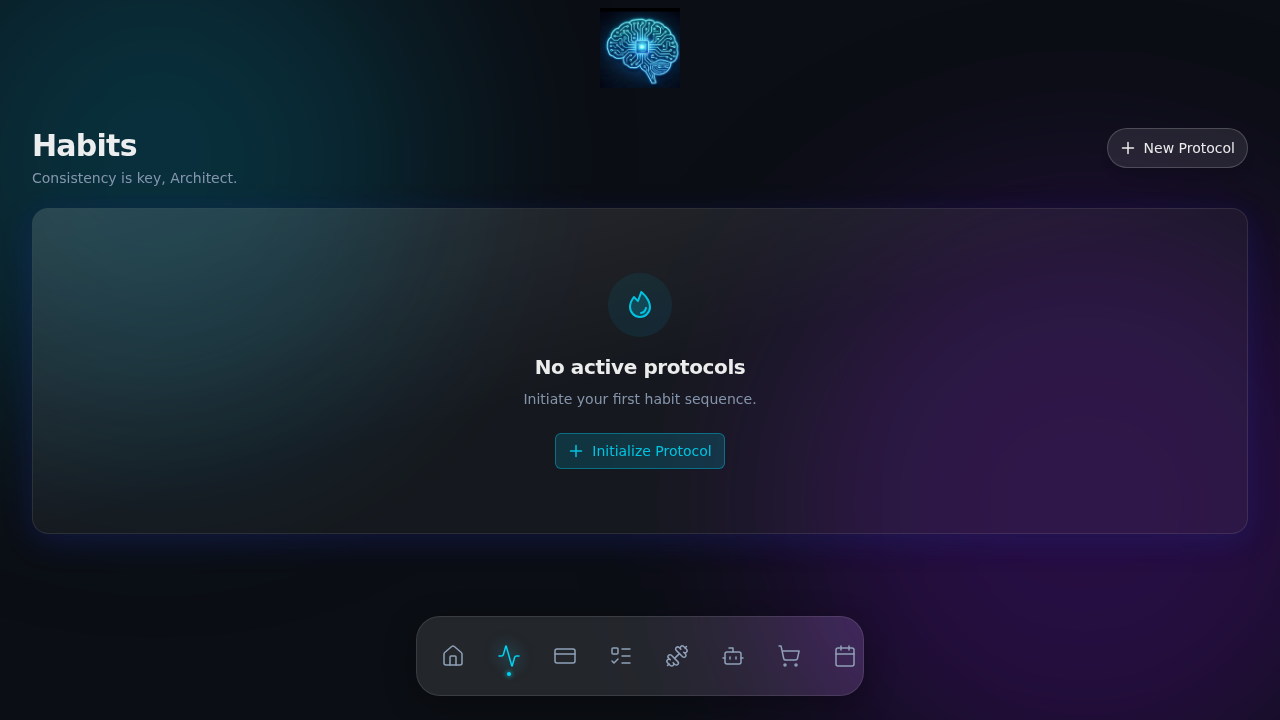
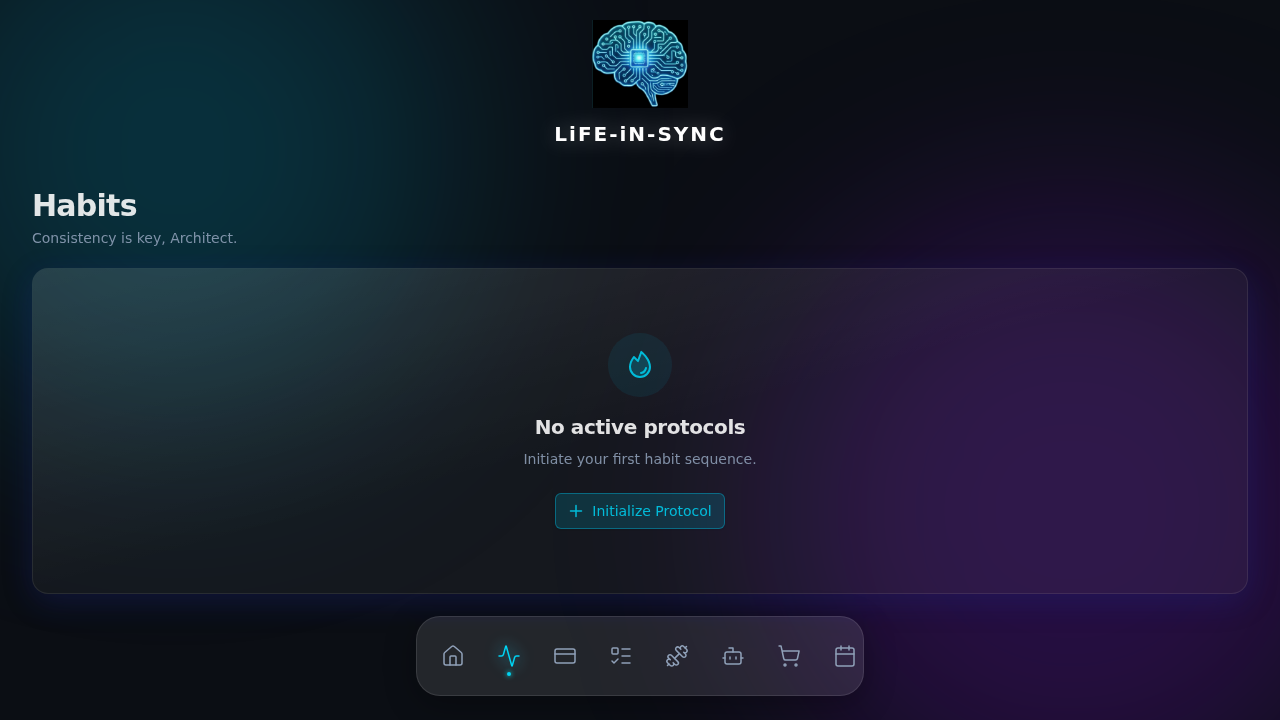
feat(ui): standardize global UX, cards, and system messages
- Updated viewport to `interactive-widget=overlays-content` to prevent layout jumping
- Refactored `useKeyboardAvoidance` to use Visual Viewport API for manual scroll management
- Standardized `Card` component to solid background (removing default glass blur)
- Refined `Toaster` styles to reduce aggressive "neon" glow
- Standardized inline form validation with icon and specific rose-400 color
- Added smooth fade-in transition to Dashboard loading
- Fixed redundant "New Protocol" action in Habits module

diff --git a/src/hooks/use-keyboard-avoidance.ts b/src/hooks/use-keyboard-avoidance.ts
@@ -4,43 +4,62 @@ import { useEffect, useState } from 'react';
  * A hook that provides keyboard visibility state and automatically scrolls
  * focused inputs into view.
  *
+ * Updated for interactive-widget=overlays-content support.
+ *
  * @returns { isKeyboardOpen: boolean }
  */
 export function useKeyboardAvoidance() {
     const [isKeyboardOpen, setIsKeyboardOpen] = useState(false);
 
     useEffect(() => {
-        // Store the initial height to compare against
-        const initialHeight = window.innerHeight;
+        // With overlays-content, visualViewport resizes but window.innerHeight stays constant (mostly)
+        // or behaves differently depending on browser.
+        // We rely on visualViewport for the most accurate measurement.
+        if (!window.visualViewport) return;
 
         const handleResize = () => {
-            const currentHeight = window.innerHeight;
-            // If the height shrinks by more than 150px (approx keyboard height), assume open
-            // Note: This relies on interactive-widget=resizes-content
-            const diff = initialHeight - currentHeight;
-            setIsKeyboardOpen(diff > 150);
+             const vv = window.visualViewport!;
+             const layoutHeight = document.documentElement.clientHeight;
+
+             // If visual viewport is significantly smaller than layout height, keyboard is likely open
+             const isOpen = vv.height < layoutHeight * 0.85; // Threshold: < 85% of screen height
+             setIsKeyboardOpen(isOpen);
+        };
+
+        const handleScroll = () => {
+             // Optional: Handle manual scroll restoration if needed
         };
 
         const handleFocus = (e: FocusEvent) => {
              const target = e.target as HTMLElement;
-             // Check if the target is an input or textarea
-             if (target.tagName === 'INPUT' || target.tagName === 'TEXTAREA') {
-                 // Wait a moment for the keyboard animation to start/finish
-                 // iOS and Android keyboard animations vary, 300ms is a safe bet
+             if (['INPUT', 'TEXTAREA'].includes(target.tagName)) {
                  setTimeout(() => {
-                     // 'scrollIntoView' with block: 'center' attempts to put the element
-                     // in the middle of the visible area.
-                     target.scrollIntoView({ behavior: 'smooth', block: 'center' });
+                     // Check if element is obscured
+                     if (window.visualViewport) {
+                        const rect = target.getBoundingClientRect();
+                        const vv = window.visualViewport;
+
+                        // Calculate visible bottom relative to the layout viewport
+                        // visualViewport.offsetTop is the scroll offset of the visual viewport
+                        // vv.height is the height of the visual viewport
+
+                        // We simply want to ensure the element is in the visual viewport.
+                        // scrollIntoView with block: 'center' usually handles this well even with overlays,
+                        // but sometimes we need to be aggressive.
+
+                        target.scrollIntoView({ behavior: 'smooth', block: 'center' });
+                     }
                  }, 300);
              }
         };
 
-        window.addEventListener('resize', handleResize);
-        // Use capture phase for focus to ensure we catch it early
+        window.visualViewport.addEventListener('resize', handleResize);
+        window.visualViewport.addEventListener('scroll', handleScroll);
         window.addEventListener('focusin', handleFocus, true);
 
         return () => {
-            window.removeEventListener('resize', handleResize);
+            window.visualViewport?.removeEventListener('resize', handleResize);
+            window.visualViewport?.removeEventListener('scroll', handleScroll);
             window.removeEventListener('focusin', handleFocus, true);
         };
     }, []);

diff --git a/src/components/shell/Toaster.tsx b/src/components/shell/Toaster.tsx
@@ -15,22 +15,22 @@ export const Toaster = () => {
           cancelButton:
             'group-[.toast]:bg-white/10 group-[.toast]:text-white hover:group-[.toast]:bg-white/20',
 
-          // Neon / Glowing States
-          // Success: Emerald Glow
+          // Refined States (Less Aggressive Glow)
+          // Success
           success:
-            '!bg-emerald-950/90 !border-emerald-500 !text-emerald-50 !shadow-[0_0_25px_-5px_rgba(16,185,129,0.6)]',
+            '!bg-emerald-950/95 !border-emerald-500/50 !text-emerald-50 !shadow-lg',
 
-          // Error: Rose/Red Glow
+          // Error
           error:
-            '!bg-rose-950/90 !border-rose-500 !text-rose-50 !shadow-[0_0_25px_-5px_rgba(244,63,94,0.6)]',
+            '!bg-rose-950/95 !border-rose-500/50 !text-rose-50 !shadow-lg',
 
-          // Warning: Amber Glow
+          // Warning
           warning:
-            '!bg-amber-950/90 !border-amber-500 !text-amber-50 !shadow-[0_0_25px_-5px_rgba(245,158,11,0.6)]',
+            '!bg-amber-950/95 !border-amber-500/50 !text-amber-50 !shadow-lg',
 
-          // Info: Cyan Glow
+          // Info
           info:
-            '!bg-cyan-950/90 !border-cyan-500 !text-cyan-50 !shadow-[0_0_25px_-5px_rgba(6,182,212,0.6)]',
+            '!bg-cyan-950/95 !border-cyan-500/50 !text-cyan-50 !shadow-lg',
         },
       }}
     />

diff --git a/src/components/modules/Dashboard.tsx b/src/components/modules/Dashboard.tsx
@@ -18,6 +18,7 @@ import { Badge } from '@/components/ui/badge'
 import { Progress } from '@/components/ui/progress'
 import { Sparkline, TrendIndicator } from '@/components/Sparkline'
 import { QuickActionsFab } from '@/components/QuickActionsFab'
+import { motion } from 'framer-motion'
 
 interface DashboardProps {
   onNavigate: (module: Module) => void
@@ -188,7 +189,12 @@ export function Dashboard({ onNavigate }: DashboardProps) {
   }, [knoxMessages])
 
   return (
-    <div className="pt-2 md:pt-4 pb-24 md:pb-16 relative">
+    <motion.div
+      initial={{ opacity: 0 }}
+      animate={{ opacity: 1 }}
+      transition={{ duration: 0.8, ease: "easeOut" }}
+      className="pt-2 md:pt-4 pb-24 md:pb-16 relative"
+    >
       <QuickActionsFab />
 
       {/* Greeting / Context */}
@@ -411,6 +417,6 @@ export function Dashboard({ onNavigate }: DashboardProps) {
           </div>
         </DashboardTile>
       </div>
-    </div>
+    </motion.div>
   )
 }

diff --git a/src/components/ui/form.tsx b/src/components/ui/form.tsx
@@ -8,6 +8,7 @@ import {
   type FieldPath,
   type FieldValues,
 } from 'react-hook-form';
+import { WarningCircle } from '@phosphor-icons/react';
 
 import { cn } from '@/lib/utils';
 import { Label } from '@/components/ui/label';
@@ -103,14 +104,17 @@ function FormMessage({ className, ...props }: ComponentProps<"p">) {
   }
 
   return (
-    <p
-      data-slot="form-message"
-      id={formMessageId}
-      className={cn("text-destructive text-sm", className)}
-      {...props}
-    >
-      {body}
-    </p>
+    <div className="flex items-center gap-1.5 mt-1.5">
+       <WarningCircle className="text-rose-400" size={14} weight="fill" />
+       <p
+         data-slot="form-message"
+         id={formMessageId}
+         className={cn("text-rose-400 text-xs font-medium", className)}
+         {...props}
+       >
+         {body}
+       </p>
+    </div>
   )
 }
 

diff --git a/src/components/modules/Habits.tsx b/src/components/modules/Habits.tsx
@@ -368,7 +368,8 @@ export function Habits() {
           <h1 className="text-2xl md:text-3xl font-bold text-white tracking-tight">Habits</h1>
           <p className="text-slate-400 mt-1 text-sm font-medium">Consistency is key, Architect.</p>
         </div>
-        {creationStep === 0 && (
+        {/* Only show "New Protocol" in header if we actually have habits (to avoid redundancy with empty state button) */}
+        {creationStep === 0 && (habits && habits.length > 0) && (
           <Button
             size="default"
             onClick={() => setCreationStep(1)}

diff --git a/index.html b/index.html
@@ -3,7 +3,7 @@
 
 <head>
     <meta charset="UTF-8" />
-    <meta name="viewport" content="width=device-width, initial-scale=1.0, maximum-scale=5.0, user-scalable=yes, interactive-widget=resizes-content" />
+    <meta name="viewport" content="width=device-width, initial-scale=1.0, maximum-scale=5.0, user-scalable=yes, interactive-widget=overlays-content" />
     <meta name="apple-mobile-web-app-capable" content="yes" />
     <meta name="apple-mobile-web-app-status-bar-style" content="black-translucent" />
     <meta name="theme-color" content="#383c4a" />

diff --git a/src/components/ui/card.tsx b/src/components/ui/card.tsx
@@ -7,7 +7,7 @@ function Card({ className, ...props }: ComponentProps<"div">) {
     <div
       data-slot="card"
       className={cn(
-        "bg-card text-card-foreground flex flex-col gap-6 rounded-xl border py-6 shadow-sm backdrop-blur-xl",
+        "bg-[#151925] text-card-foreground flex flex-col gap-6 rounded-xl border border-white/10 py-6 shadow-sm",
         className
       )}
       {...props}
